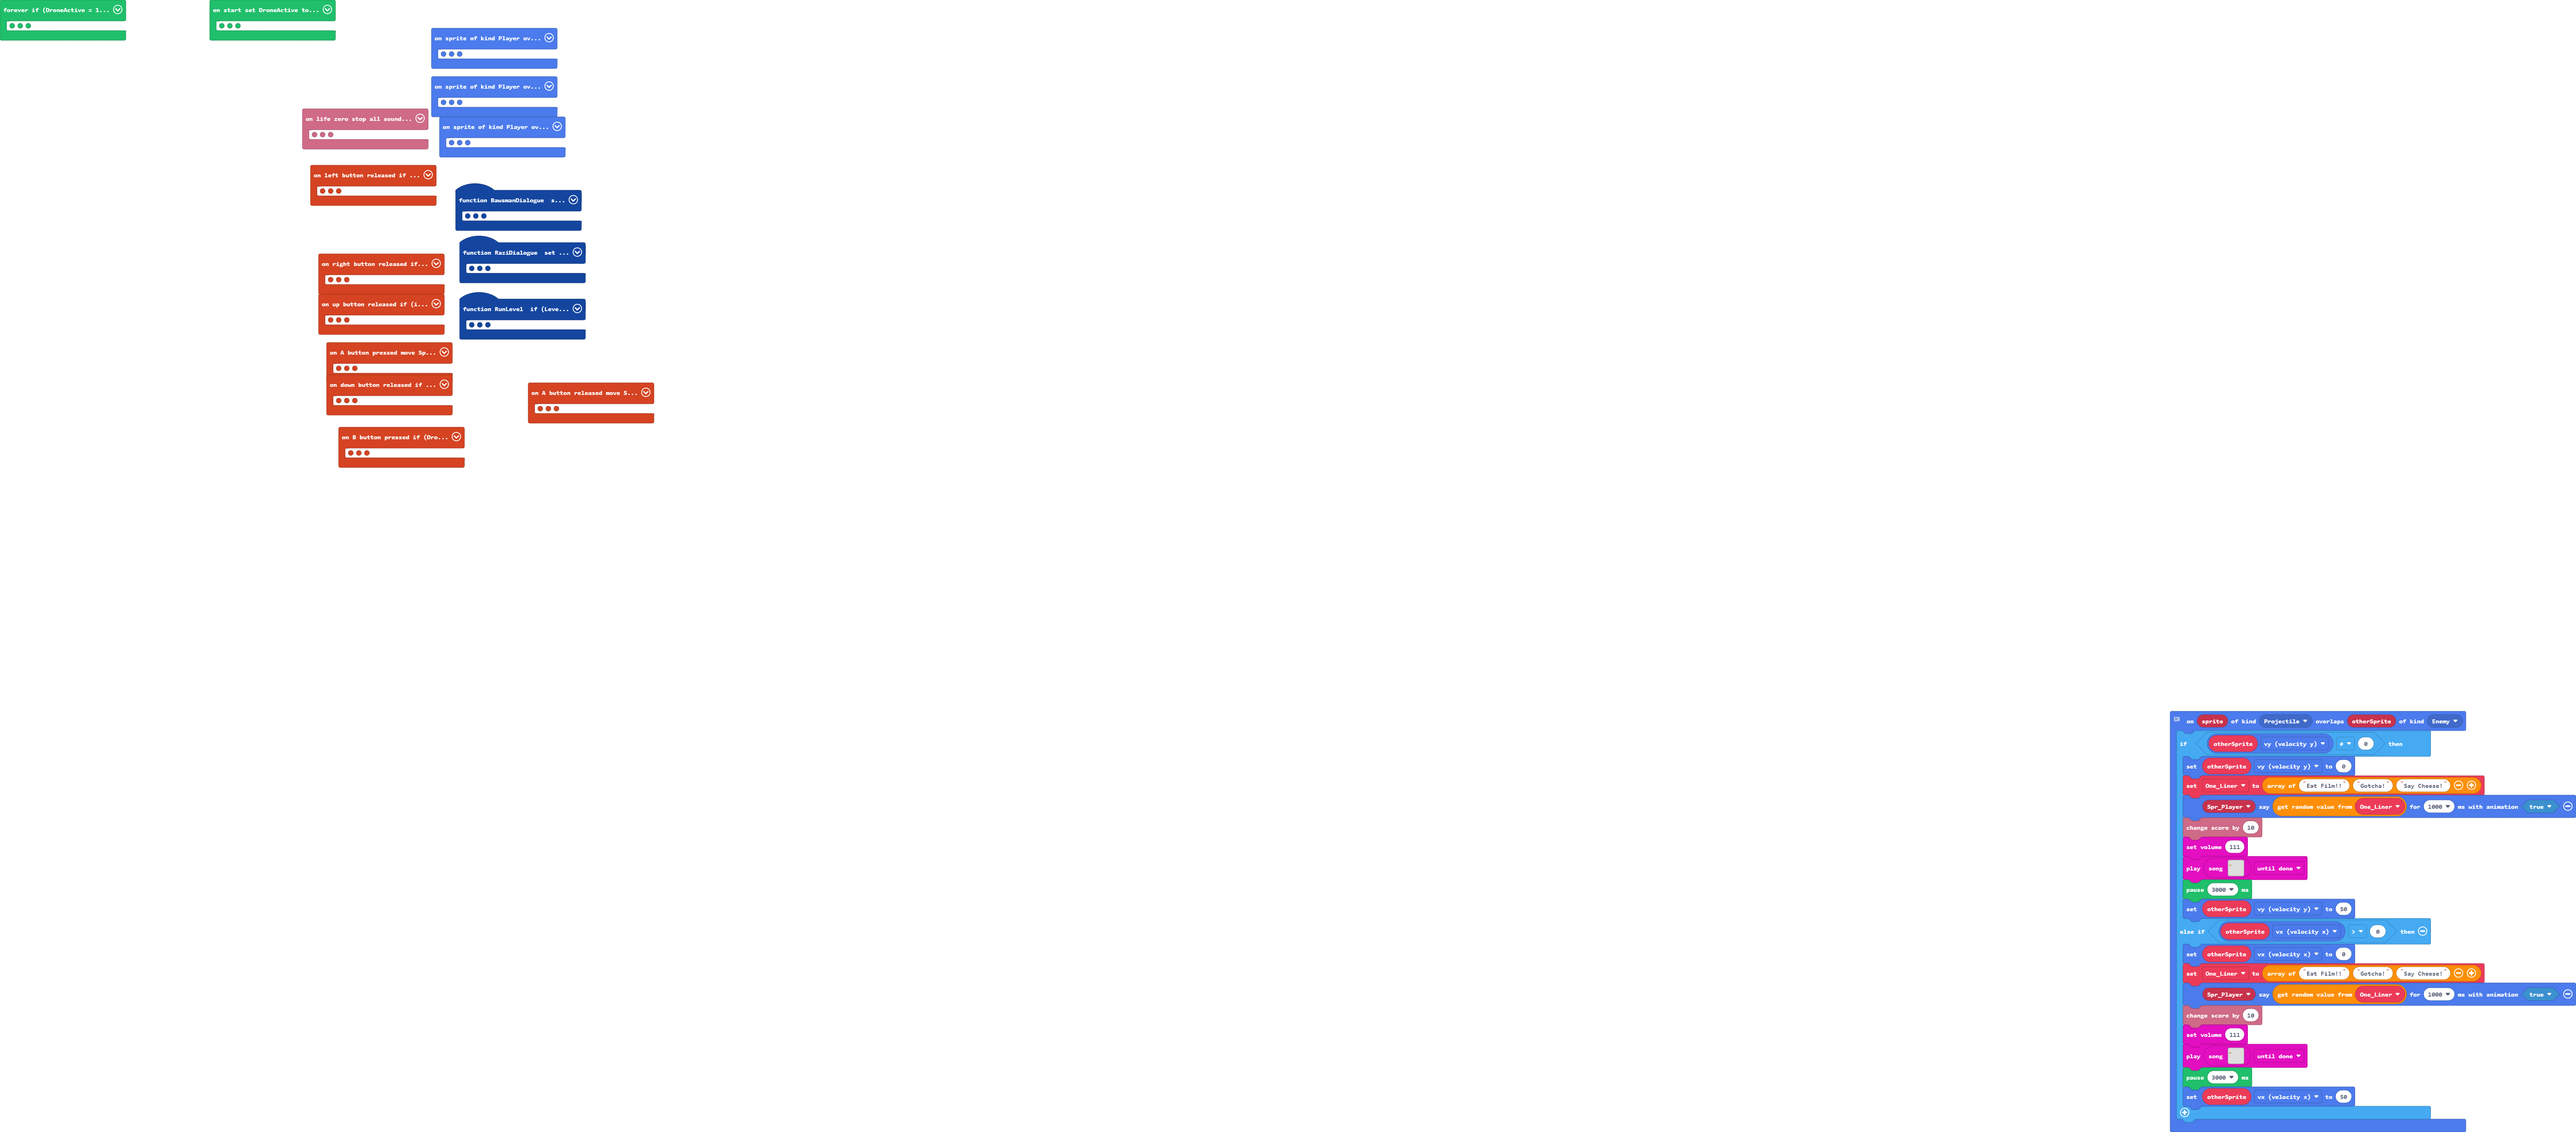
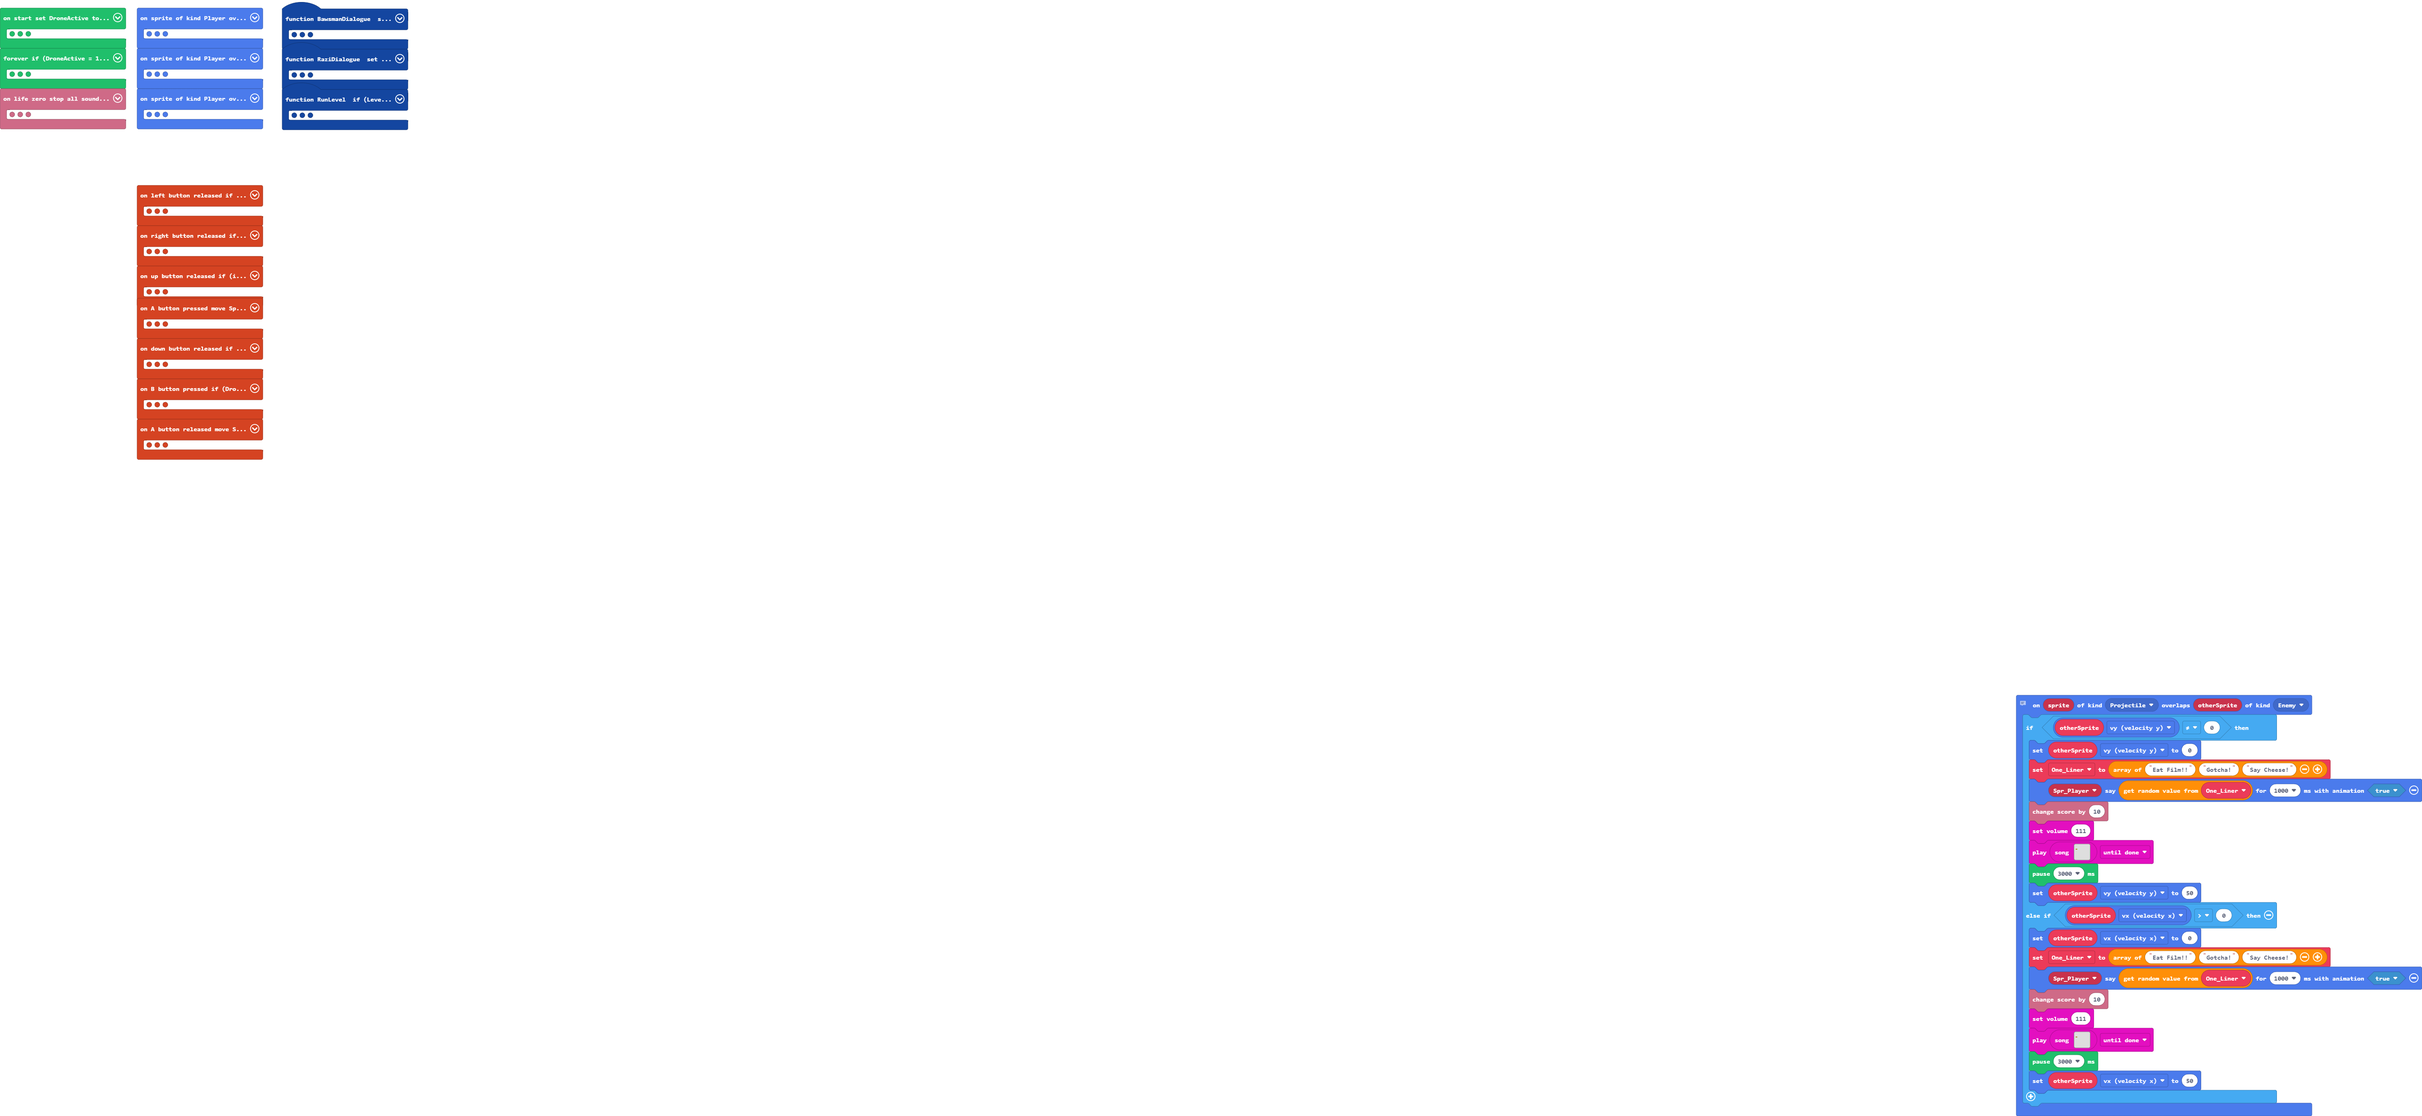
Up Flash Is white

Changed region(s): [[0.0, 0.0, 0.28, 0.4348], [0.809, 0.6212, 1.0, 1.0]]

diff --git a/images.g.ts b/images.g.ts
@@ -3,41 +3,6 @@ namespace myImages {
 
     helpers._registerFactory("image", function(name: string) {
         switch(helpers.stringTrim(name)) {
-            case "}ct09MxKkUn+J1rI3l;v":
-            case "Flash Up":return img`
-.............111111.............
-..........111111111111..........
-........1111111111111111........
-......11111111111111111111......
-.....1111111111111111111111.....
-....111111111111111111111111....
-..1111111111111111111111111111..
-.111111111111111111111111111111.
-11111111111111111111111111111111
-11111111111111111111111111111111
-11111111111111111111111111111111
-.111111111111111111111111111111.
-..1111111111111111111111111111..
-..1111111111111111111111111111..
-...11111111111111111111111111...
-....111111111111111111111111....
-....111111111111111111111111....
-.....1111111111111111111111.....
-......11111111111111111111......
-......11111111111111111111......
-.......111111111111111111.......
-........1111111111111111........
-........1111111111111111........
-.........11111111111111.........
-..........111111111111..........
-...........1111111111...........
-............11111111............
-.............111111.............
-................................
-................................
-................................
-................................
-`;
             case "3ST5pr]":
             case "Flash Down":return img`
 ................................
@@ -648,6 +613,41 @@ f a 6 6 6 7 f
 ...........fedf.........
 ..........ffddf.........
 .........ffffff.........
+`;
+            case "}ct09MxKkUn+J1rI3l;v":
+            case "Flash Up":return img`
+.............444444.............
+..........444444444444..........
+........4444444444444444........
+......44444444444444444444......
+.....4444444444444444444444.....
+....444444444444444444444444....
+..4444444444444444444444444444..
+.444444444444444444444444444444.
+44444444444444444444444444444444
+44444444444444444444444444444444
+44444444444444444444444444444444
+.444444444444444444444444444444.
+..4444444444444444444444444444..
+..4444444444444444444444444444..
+...44444444444444444444444444...
+....444444444444444444444444....
+....444444444444444444444444....
+.....4444444444444444444444.....
+......44444444444444444444......
+......44444444444444444444......
+.......444444444444444444.......
+........4444444444444444........
+........4444444444444444........
+.........44444444444444.........
+..........444444444444..........
+...........4444444444...........
+............44444444............
+.............444444.............
+................................
+................................
+................................
+................................
 `;
         }
         return null;
